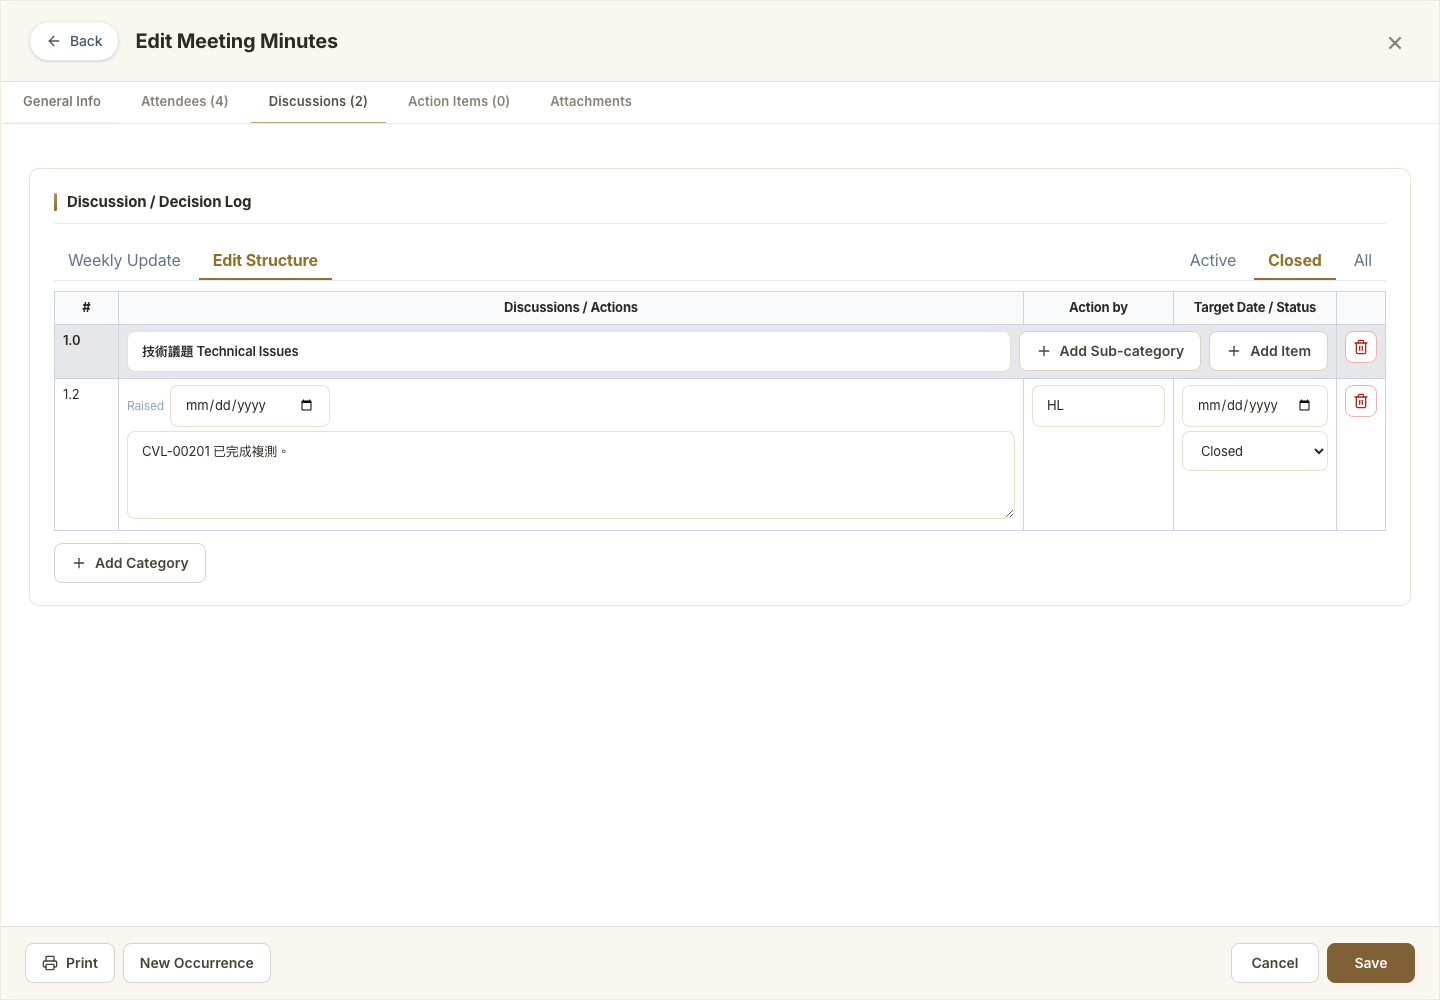
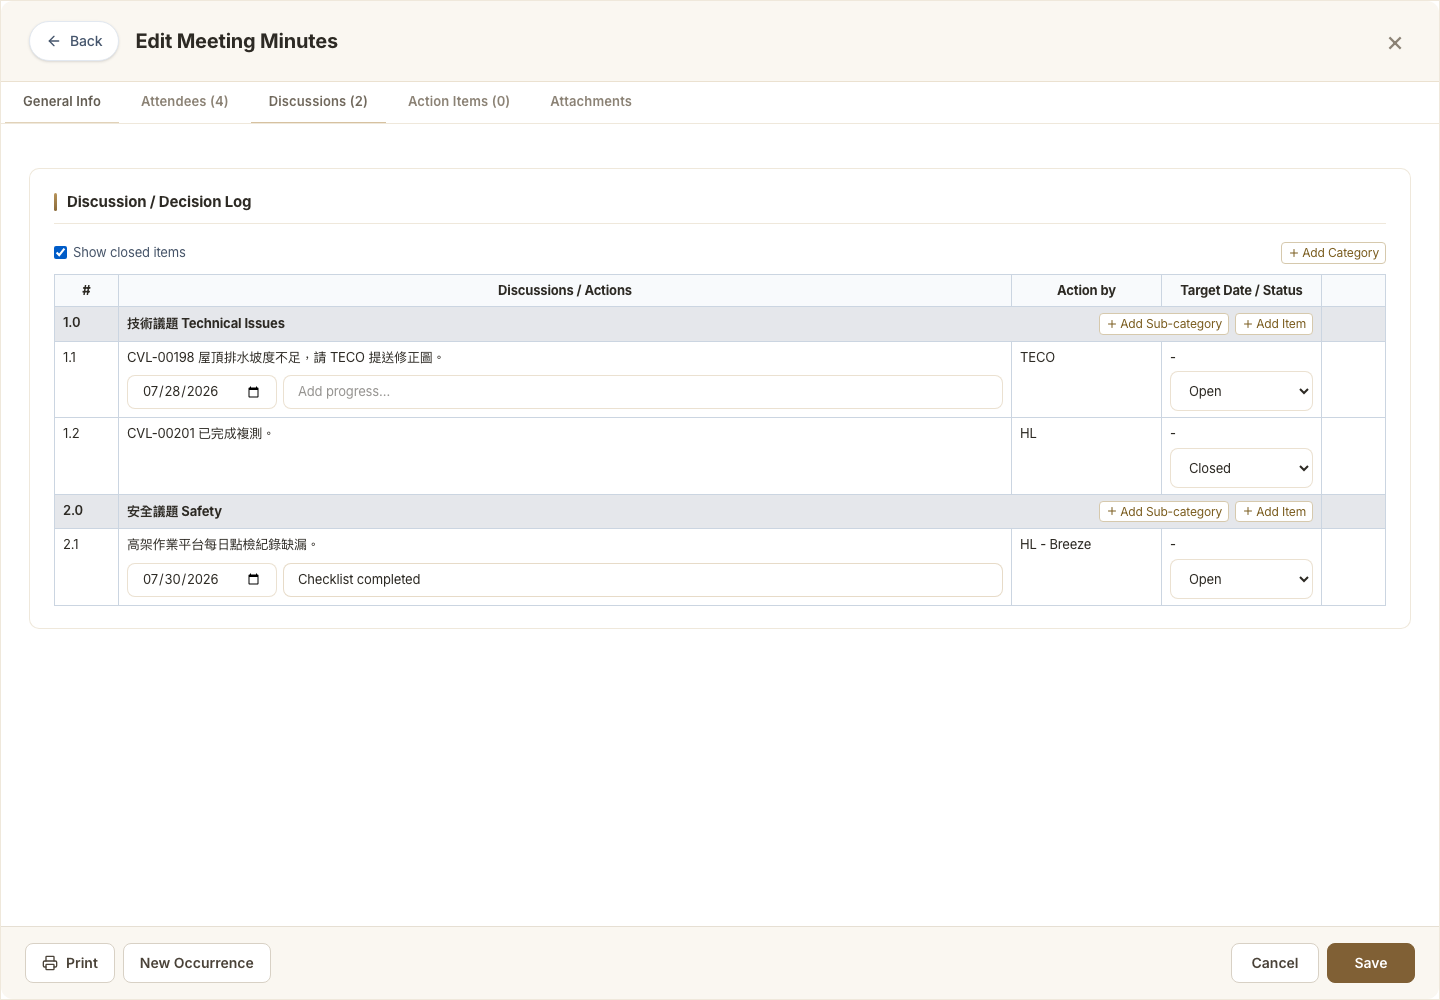
docs(meeting-minutes): MEETING-TABS-2026-001 R4-R5 status, review and evidence

Changed region(s): [[0.0312, 0.248, 0.9688, 0.589]]

diff --git a/docs/workflow/MEETING-TABS-2026-001-REVIEW.md b/docs/workflow/MEETING-TABS-2026-001-REVIEW.md
@@ -19,3 +19,11 @@
 setCurrentUpdate 邊界、唯讀兩模式、離開提醒與擋存檔、raisedDate 前後端與帶入、列印與日期格式、翻譯鍵、CRLF 均確認正確；tsc 乾淨、npm test 156 passed。
 不擋 PASS 的建議（已全部處理）：1 先選日期再打字日期會丟 → 暫存所選日期；2 只有空白會存成更新 → trim；3 openAtStart 以編號記住，重編號後錯位 → 依刪除對照表改編號；4 切回本週會直接清掉已打字的新增列 → 先確認。
 資訊：同事項多筆本次更新只來自 R2 版資料（未上線，不處理）；formatMinutesDate 不檢查日數（如 2026-02-31），影響可忽略。
+
+## R4：PASS（單一畫面＋✏ 就地編輯）
+刪除時編號跟隨、新列插入位置、headingShown、帶入列 ✏ 不寫入內容／起始日期、isEditDirty、已發布全唯讀、移除的翻譯鍵無殘留，均確認。tsc 乾淨、npm test 156 passed。
+建議（已處理）：本次新增事項改已結案會立刻消失 → 新事項加入 openAtStart；刪除事項的確認文字依類型區分（confirmDeleteItem）。資訊：新列開著時取消「顯示已結案」若上層被隱藏，新列移到表尾（資料不受影響）。
+
+## R5：PASS（按鈕縮小、✏／🗑 hover 顯示、文字框自動高度）
+nextNo 與 addEntry 編號一致；隱形按鈕可 Tab 聚焦且 focus-within 會顯示，有 aria-label；CSS module 的 tr:hover 只作用在討論區；AutoText 的 ResizeObserver 只看寬度、不循環，隱藏分頁首次顯示會補量；討論區已不用撐寬的舊按鈕。tsc 乾淨、npm test 156 passed。
+建議（已處理）：字型晚載入可能少算高度 → document.fonts.ready 後再量一次。資訊（已處理）：.autoText 的 min-height 依賴樣式載入順序 → 改為 .autoText.autoText 提高權重。
